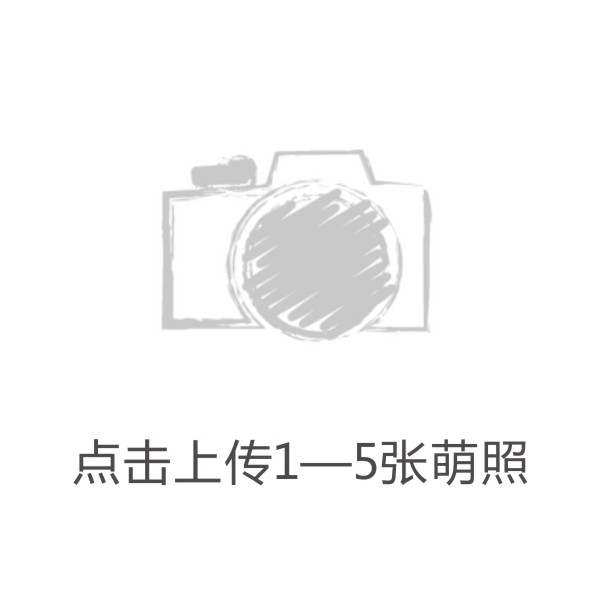
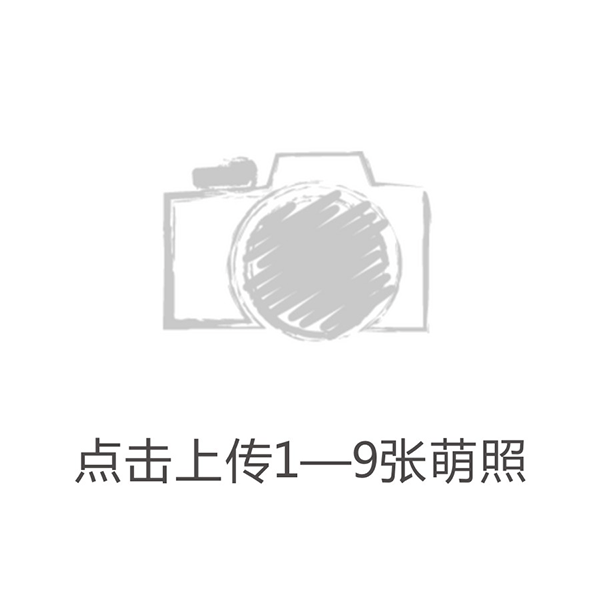
d

diff --git a/mengbaoDist/html/center.html b/mengbaoDist/html/center.html
@@ -1,1 +1,1 @@
-<!DOCTYPE html><html lang="en"><head><meta charset="utf-8"><meta http-equiv="X-UA-Compatible" content="IE=edge"><meta name="viewport" content="width=device-width,initial-scale=1,minimum-scale=1,maximum-scale=1"><meta name="description" content=""><meta name="kk" content=""><link rel="stylesheet" type="text/css" href="../css/mengbaoless.css"><link rel="stylesheet" href="../ui/sweetalert/sweetalert.css"><title>萌宝大赛</title></head><body class="max-width"><!-- 底部tab --><div class="bottom-bar max-width"><div class="inline-block width33 index" style="border-left:none"><img class="bottom-btn" src="../img/btn-index.png"></div><div id="my-baby-tab" class="inline-block width33 mybaby"><img class="bottom-btn" src="../img/btn-mybaby.png"></div><div id="want-join-tab" class="inline-block width33 add"><img class="bottom-btn" src="../img/btn-join.png"></div><div class="inline-block width33 prize"><img class="bottom-btn" src="../img/btn-prize.png"></div></div><!-- 顶部 宣传图片 --><!--<div class="top max-width" >--><!--<img src="../img/top.png" class="mengbao-banner">--><!--<div class="activity-rule">活动规则</div>--><!--</div>--><div class="banner max-width" style="height: 204px;overflow: hidden"><ul style="padding:0;margin:0"><li><div class="top max-width"><img src="../img/top.png" class="mengbao-banner"><div class="activity-rule">活动规则</div></div></li><li><div class="top max-width"><a href="http://mp.weixin.qq.com/s?__biz=MzAwOTMzNzkwMQ==&mid=208574211&idx=1&sn=8f911382db59a8518b26240af5081882#rd"><img src="../img/adv/indexAd0.jpg" class="mengbao-banner"></a><div class="activity-rule">活动规则</div></div></li><li><div class="top max-width"><a href="http://mp.weixin.qq.com/s?__biz=MzAwMTMwMDgyNA==&mid=210500484&idx=1&sn=e60b76d78fe80ea59eeb7f29209838e4&scene=2&from=timeline&isappinstalled=0#rd"><img src="../img/adv/indexAd1.jpg" class="mengbao-banner"></a><div class="activity-rule">活动规则</div></div></li><li><div class="top max-width"><a href="http://mp.weixin.qq.com/s?__biz=MzA3MzQ4OTk2OQ==&amp;mid=208308928&idx=1&sn=5b9f8f1ede4556c8d934030327756b45&scene=0#rd"><img src="../img/adv/indexAd2.jpg" class="mengbao-banner"></a><div class="activity-rule">活动规则</div></div></li></ul></div><!-- 浏览投票统计信息 --><div class="visit-info-block"><div class="inline-block join-info-width33" style="border-left:none"><div class="visit-item">报名人数</div><div class="visit-num votePeople"></div></div><div class="inline-block join-info-width33"><div class="visit-item">投票总数</div><div class="visit-num voteNum"></div></div><div class="inline-block join-info-width33"><div class="visit-item">访问量</div><div class="visit-num visit"></div></div></div><!-- 最新参赛 --><div class="title-marker"><img src="../img/newjoin.png" width="50%"></div><div class="banner"><ul class="new-list"></ul></div><!-- 搜索 --><div class="search-wrap"><input class="inline-block search-content" type="text" placeholder="   输入姓名或编号进行搜索"><div class="inline-block search-btn">搜索</div></div><!-- 萌宝排行 --><div class="title-marker"><img src="../img/ranking.png" width="80%"></div><div class="meng-list"></div><script src="../ui/jquery/jquery.min.js"></script><script src="../ui/sweetalert/sweetalert-dev.js"></script><script src="../ui/jquery.event.swipe.js"></script><script src="../ui/unslide/unslider.min.js"></script><script src="../js/mengbaoTool.js"></script><script src="../js/center.js"></script><div style="display:none"><script type="text/javascript">var cnzz_protocol = (("https:" == document.location.protocol) ? " https://" : " http://");document.write(unescape("%3Cspan id='cnzz_stat_icon_1255971007'%3E%3C/span%3E%3Cscript src='" + cnzz_protocol + "s4.cnzz.com/z_stat.php%3Fid%3D1255971007' type='text/javascript'%3E%3C/script%3E"));</script></div></body></html>
+<!DOCTYPE html><html lang="en"><head><meta charset="utf-8"><meta http-equiv="X-UA-Compatible" content="IE=edge"><meta name="viewport" content="width=device-width,initial-scale=1,minimum-scale=1,maximum-scale=1"><meta name="description" content=""><meta name="kk" content=""><link rel="stylesheet" type="text/css" href="../css/mengbaoless.css"><link rel="stylesheet" href="../ui/sweetalert/sweetalert.css"><title>萌宝大赛</title></head><body class="max-width"><!-- 底部tab --><div class="bottom-bar max-width"><div class="inline-block width33 index" style="border-left:none"><img class="bottom-btn" src="../img/btn-index.png"></div><div id="my-baby-tab" class="inline-block width33 mybaby"><img class="bottom-btn" src="../img/btn-mybaby.png"></div><div id="want-join-tab" class="inline-block width33 add"><img class="bottom-btn" src="../img/btn-join.png"></div><div class="inline-block width33 prize"><img class="bottom-btn" src="../img/btn-prize.png"></div></div><!-- 顶部 宣传图片 --><!--<div class="top max-width" >--><!--<img src="../img/top.png" class="mengbao-banner">--><!--<div class="activity-rule">活动规则</div>--><!--</div>--><div class="banner max-width" style="height: 204px;overflow: hidden"><ul style="padding:0;margin:0"><li><div class="top max-width"><img src="../img/top.png" class="mengbao-banner"><div class="activity-rule">活动规则</div></div></li><li><div class="top max-width"><a href="http://mp.weixin.qq.com/s?__biz=MzAwOTMzNzkwMQ==&mid=208574211&idx=1&sn=8f911382db59a8518b26240af5081882#rd"><img src="../img/adv/indexAd0.jpg" class="mengbao-banner"></a><div class="activity-rule">活动规则</div></div></li><li><div class="top max-width"><a href="http://mp.weixin.qq.com/s?__biz=MzAwMTMwMDgyNA==&mid=210500484&idx=1&sn=e60b76d78fe80ea59eeb7f29209838e4&scene=2&from=timeline&isappinstalled=0#rd"><img src="../img/adv/indexAd1.jpg" class="mengbao-banner"></a><div class="activity-rule">活动规则</div></div></li><li><div class="top max-width"><a href="http://mp.weixin.qq.com/s?__biz=MzA3MzQ4OTk2OQ==&amp;mid=208308928&idx=1&sn=5b9f8f1ede4556c8d934030327756b45&scene=0#rd"><img src="../img/adv/indexAd2.jpg" class="mengbao-banner"></a><div class="activity-rule">活动规则</div></div></li></ul></div><!-- 浏览投票统计信息 --><div class="visit-info-block"><div class="inline-block join-info-width33" style="border-left:none"><div class="visit-item">报名人数</div><div class="visit-num votePeople"></div></div><div class="inline-block join-info-width33"><div class="visit-item">投票总数</div><div class="visit-num voteNum"></div></div><div class="inline-block join-info-width33"><div class="visit-item">访问量</div><div class="visit-num visit"></div></div></div><!-- 最新参赛 --><div class="title-marker"><img src="../img/prizeindex.png" width="100%"></div><!-- 最新参赛 --><div class="title-marker"><img src="../img/newjoin.png" width="50%"></div><div class="banner"><ul class="new-list"></ul></div><!-- 搜索 --><div class="search-wrap"><input class="inline-block search-content" type="text" placeholder="   输入姓名或编号进行搜索"><div class="inline-block search-btn">搜索</div></div><!-- 萌宝排行 --><div class="title-marker"><img src="../img/ranking.png" width="80%"></div><div class="meng-list"></div><script src="../ui/jquery/jquery.min.js"></script><script src="../ui/sweetalert/sweetalert-dev.js"></script><script src="../ui/jquery.event.swipe.js"></script><script src="../ui/unslide/unslider.min.js"></script><script src="../js/mengbaoTool.js"></script><script src="../js/center.js"></script><div style="display:none"><script type="text/javascript">var cnzz_protocol = (("https:" == document.location.protocol) ? " https://" : " http://");document.write(unescape("%3Cspan id='cnzz_stat_icon_1255971007'%3E%3C/span%3E%3Cscript src='" + cnzz_protocol + "s4.cnzz.com/z_stat.php%3Fid%3D1255971007' type='text/javascript'%3E%3C/script%3E"));</script></div></body></html>

diff --git a/mengbaoDist/js/mengbaoTool.js b/mengbaoDist/js/mengbaoTool.js
@@ -1,1 +1,1 @@
-var mengbaoTools=function(){function n(n){$.ajax({url:"/baby/vote",type:"POST",data:{sfId:sfid,bId:n}}).done(function(n){n.flag?(alert("投票成功!"),window.location.reload()):"未关注"==n.msg?swal({title:"",text:"投票要先关注荔枝妈妈.",imageUrl:i(),showCancelButton:!0,confirmButtonColor:"#DD6B55",confirmButtonText:"图文教程",cancelButtonText:"取消",closeOnConfirm:!1},function(){window.location.href="http://mp.weixin.qq.com/s?__biz=MzI5ODAwNTY2MA==&mid=207512386&idx=1&sn=d2e302c89ba38c96069c96f921847921&scene=0#rd"}):alert(n.msg)}).fail(function(){console.log("error"),alert("投票失败!")})}function i(){var n=Math.floor(3*Math.random());return"../img/adv/ad"+n+".jpg"}function o(){$.ajax({url:"/baby/joined",type:"get",data:{sfId:sfid},dataType:"json"}).done(function(n){t(n.ifJoin),$("#my-baby-tab").attr("bid",n.bId)}).fail(function(){console.log("error")})}function t(n){n?$("#want-join-tab").hide():$("#my-baby-tab").hide()}function e(){var n=window.location.search,i=new Object;if(-1!=n.indexOf("?"))for(var o=n.substr(1),t=o.split("&"),e=0;e<t.length;e++)i[t[e].split("=")[0]]=t[e].split("=")[1];return i}function a(){$(document).on("click",".index",function(){window.location.href="center.html?sfid="+sfid}),$(document).on("click",".add",function(){window.location.href="add.html?sfid="+sfid}),$(document).on("click",".mybaby",function(){var n=$(this).attr("bid");window.location.href="mybaby.html?sfid="+sfid+"&bid="+n}),$(document).on("click",".prize",function(){window.location.href="prize.html?sfid="+sfid}),$(document).on("click",".activity-rule",function(){window.location.href="activity.html?sfid="+sfid})}function c(){$(".banner").unslider()}function r(){var n=window.location.href,i="/wxpay/prepare";$.ajax({type:"post",url:i,data:{curl:n,platformId:"8af5535b4ef90b7d014efb8fc3f00bec"},success:function(n){wx.config({debug:!1,appId:n.appid,timestamp:n.timestamp,nonceStr:n.noncestr,signature:n.sign_result,jsApiList:["onMenuShareTimeline","onMenuShareAppMessage"]})},error:function(n){console.log("ERROR:",n)}})}function f(){var n=' <div id="mask" style="z-index:9999;background-color: black;opacity: 0.8;position:fixed;top:0;bottom:0;left:0;right:0;"><img style="float: right;" src="../img/share.png"></div>';$("body").prepend(n),$("#mask").click(function(){d()})}function d(){$("#mask").remove()}return{RequestParameter:function(){return e()},init:function(){a(),o()},initBanner:function(){c()},initWxShare:function(){r()},vote:function(i){n(i)},shareTip:function(){f()},randomPic:function(){i()}}}(),sfid=mengbaoTools.RequestParameter().sfid,bid=mengbaoTools.RequestParameter().bid;mengbaoTools.init();
+var mengbaoTools=function(){function n(n){$.ajax({url:"/baby/vote",type:"POST",data:{sfId:sfid,bId:n}}).done(function(n){n.flag?(alert("投票成功!"),window.location.reload()):"未关注"==n.msg?swal({title:"",showConfirmButton:!1,text:"请进入微信公众号“荔枝妈妈”点击菜单栏【萌宝大赛】进行投票<a href='http://mp.weixin.qq.com/s?__biz=MzI5ODAwNTY2MA==&mid=207512386&idx=1&sn=d2e302c89ba38c96069c96f921847921&scene=0#rd'><button>图文教程</button></a><img style='margin-top:30px;' width='220' src='"+mengbaoTools.randomPic()+"'>",html:!0},function(){}):alert(n.msg)}).fail(function(){console.log("error"),alert("投票失败!")})}function i(){var n=Math.floor(3*Math.random());return"../img/adv/ad"+n+".jpg"}function t(){$.ajax({url:"/baby/joined",type:"get",data:{sfId:sfid},dataType:"json"}).done(function(n){o(n.ifJoin),$("#my-baby-tab").attr("bid",n.bId)}).fail(function(){console.log("error")})}function o(n){n?$("#want-join-tab").hide():$("#my-baby-tab").hide()}function e(){var n=window.location.search,i=new Object;if(-1!=n.indexOf("?"))for(var t=n.substr(1),o=t.split("&"),e=0;e<o.length;e++)i[o[e].split("=")[0]]=o[e].split("=")[1];return i}function a(){$(document).on("click",".index",function(){window.location.href="center.html?sfid="+sfid}),$(document).on("click",".add",function(){window.location.href="add.html?sfid="+sfid}),$(document).on("click",".mybaby",function(){var n=$(this).attr("bid");window.location.href="mybaby.html?sfid="+sfid+"&bid="+n}),$(document).on("click",".prize",function(){window.location.href="prize.html?sfid="+sfid}),$(document).on("click",".activity-rule",function(){window.location.href="activity.html?sfid="+sfid})}function r(){$(".banner").unslider()}function c(){var n=window.location.href,i="/wxpay/prepare";$.ajax({type:"post",url:i,data:{curl:n,platformId:"8af5535b4ef90b7d014efb8fc3f00bec"},success:function(n){wx.config({debug:!1,appId:n.appid,timestamp:n.timestamp,nonceStr:n.noncestr,signature:n.sign_result,jsApiList:["onMenuShareTimeline","onMenuShareAppMessage"]})},error:function(n){console.log("ERROR:",n)}})}function d(){var n=' <div id="mask" style="z-index:9999;background-color: black;opacity: 0.8;position:fixed;top:0;bottom:0;left:0;right:0;"><img style="float: right;" src="../img/share.png"></div>';$("body").prepend(n),$("#mask").click(function(){f()})}function f(){$("#mask").remove()}return{RequestParameter:function(){return e()},init:function(){a(),t()},initBanner:function(){r()},initWxShare:function(){c()},vote:function(i){n(i)},shareTip:function(){d()},randomPic:function(){return i()}}}(),sfid=mengbaoTools.RequestParameter().sfid,bid=mengbaoTools.RequestParameter().bid;mengbaoTools.init();

diff --git a/mengbaoDist/js/center.js b/mengbaoDist/js/center.js
@@ -1,1 +1,1 @@
-var centerRender=function(){function n(n,i,e,t){return' <div class="inline-block rank-item width50"><div class="rank-img-wrap">   <img class="img-response mengbao-entrance" mid="'+e+'"  src="'+n+'">   </div>   </div><div class="inline-block rank-item width50">      <img src="../img/topbg.png" class="img-response">    <img src="../img/bestmengbaby.png" class="best-meng-baby">     <div class="top-mengbao-info" style="padding:5px;">       姓名:'+i+"&nbsp;&nbsp;编号:"+e+'      <div class="vote-num">票数:'+t+'</div>     <div class=" red-btn vote-btn" mid='+e+">投票</div> </div> </div>"}function i(n,i,e,t){return'<div class="inline-block rank-item width50"><div class="rank-img-wrap">   <img class ="img-response mengbao-entrance" mid="'+e+'"  src="'+n+'"></div><div class="mengbao-info">   姓名:'+i+"&nbsp;&nbsp;编号:"+e+'  <div class="vote-num">票数:'+t+'</div> <div class="red-btn vote-btn" mid="'+e+'">投票</div></div></div>'}function e(n,i,e,t){return'<div class="inline-block width33-base new-item"><div class="img-wrap">    <img class="img-response mengbao-entrance" mid="'+e+'" src="'+n+'" ></div><div class="joiner-info">       姓名：'+i+"       <br>         编号："+e+"          <br>           时间："+t+"    </div>  </div>"}function t(n){$(".votePeople").text(n.votePeople),$(".voteNum").text(n.voteNum),$(".visit").text(n.visit)}function s(n){for(var i=n.newJoiner,t="",s=0;s<i.length;s++)s%3==0&&(t+="<li>"),t+=e(i[s].img,i[s].name,i[s].id,i[s].joinTime),s%3==2&&(t+="</li>");t+="</li>",$(".new-list").append(t),mengbaoTools.initBanner()}function a(e){console.log(e);var t=e.mengbaoList,s="";s=n(t[0].img,t[0].name,t[0].id,t[0].geted);for(var a=1;a<t.length;a++)s+=i(t[a].img,t[a].name,t[a].id,t[a].geted);$(".meng-list").append(s)}function o(n){console.log(n);var e=n,t="";0==e.length&&(t+='<p style="text-align: center;">对不起，没有搜索到符合条件的用户</p>');for(var s=0;s<e.length;s++)t+=i(e[s].img,e[s].name,e[s].id,e[s].geted);$(".meng-list").append(t)}function c(){$.get("/baby ",function(n){t(n),s(n),a(n),r()})}function d(n){$.ajax({url:"\b/baby/search",type:"POST",data:{q:n}}).done(function(n){$(".meng-list").empty(),o(n)}).fail(function(){alert("搜索失败!")})}function r(){$(".vote-btn").click(function(){var n=$(this).attr("mid");mengbaoTools.vote(n)}),$(".mengbao-entrance").click(function(){var n=$(this).attr("mid");window.location.href="babydetail.html?sfid="+sfid+"&bid="+n}),$(".search-btn").click(function(){var n=$(".search-content").val();d(n)})}return{renderViews:function(){c()},bindings:function(){r()}}}();centerRender.renderViews();
+var centerRender=function(){function n(n,i,e,t){return' <div class="inline-block rank-item width50"><div class="rank-img-wrap">   <img class="img-response mengbao-entrance" mid="'+e+'"  src="'+n+'">   </div>   </div><div class="inline-block rank-item width50">      <img src="../img/topbg.png" class="img-response">    <img src="../img/bestmengbaby.png" class="best-meng-baby">     <div class="top-mengbao-info" style="padding:5px;">       姓名:'+i+"&nbsp;&nbsp;编号:"+e+'      <div class="vote-num">票数:'+t+'</div>     <div class=" red-btn vote-btn" mid='+e+">投票</div> </div> </div>"}function i(n,i,e,t){return'<div class="inline-block rank-item width50"><div class="rank-img-wrap">   <img class ="img-response mengbao-entrance" mid="'+e+'"  src="'+n+'"></div><div class="mengbao-info">   姓名:'+i+"&nbsp;&nbsp;编号:"+e+'  <div class="vote-num">票数:'+t+'</div> <div class="red-btn vote-btn" mid="'+e+'">投票</div></div></div>'}function e(n,i,e,t){return'<div class="inline-block width33-base new-item"><div class="img-wrap">    <img class="img-response mengbao-entrance" mid="'+e+'" src="'+n+'" ></div><div class="joiner-info">       姓名：'+i+"       <br>         编号："+e+"          <br>           时间："+t+"    </div>  </div>"}function t(n){$(".votePeople").text(n.votePeople),$(".voteNum").text(n.voteNum),$(".visit").text(n.visit)}function s(n){for(var i=n.newJoiner,t="",s=0;s<i.length;s++)s%3==0&&(t+="<li>"),t+=e(i[s].img,i[s].name,i[s].id,i[s].joinTime),s%3==2&&(t+="</li>");t+="</li>",$(".new-list").append(t),mengbaoTools.initBanner()}function a(e){console.log(e);var t=e.mengbaoList,s="";s=n(t[0].img,t[0].name,t[0].id,t[0].geted);for(var a=1;a<t.length;a++)s+=i(t[a].img,t[a].name,t[a].id,t[a].geted);$(".meng-list").append(s)}function o(n){console.log(n);var e=n,t="";0==e.length&&(t+='<p style="text-align: center;">没有搜索到符合条件的用户!</p>');for(var s=0;s<e.length;s++)t+=i(e[s].img,e[s].name,e[s].id,e[s].geted);$(".meng-list").append(t)}function c(){$.get("/baby ",function(n){t(n),s(n),a(n),r()})}function d(n){$.ajax({url:"\b/baby/search",type:"POST",data:{q:n}}).done(function(n){$(".meng-list").empty(),o(n)}).fail(function(){alert("搜索失败!")})}function r(){$(".vote-btn").click(function(){var n=$(this).attr("mid");mengbaoTools.vote(n)}),$(".mengbao-entrance").click(function(){var n=$(this).attr("mid");window.location.href="babydetail.html?sfid="+sfid+"&bid="+n}),$(".search-btn").click(function(){var n=$(".search-content").val();d(n)})}return{renderViews:function(){c()},bindings:function(){r()}}}();centerRender.renderViews();

diff --git a/mengbaoDist/js/add.js b/mengbaoDist/js/add.js
@@ -1,1 +1,1 @@
-$(document).ready(function(){wxImgOpt.init(),wxImgOpt.bindings()});var wxImgOpt=function(){function n(){$(".commit-info").click(function(){1==sfid?swal({title:"",text:"参加活动请先关注荔枝妈妈.",imageUrl:mengbaoTools.randomPic(),showCancelButton:!0,confirmButtonColor:"#DD6B55",confirmButtonText:"图文教程",cancelButtonText:"取消",closeOnConfirm:!1},function(){window.location.href="http://mp.weixin.qq.com/s?__biz=MzI5ODAwNTY2MA==&mid=207512386&idx=1&sn=d2e302c89ba38c96069c96f921847921&scene=0#rd"}):e()})}function e(){""==$(".nickname").val()?alert("请填写名字"):11!=$(".phone").val().length?alert("请填写11位手机号码，以方便我们联系到您！"):0==u.length?alert("参赛必须要上传一张以上的宝宝图片!"):$.post("/baby",{"user.id":sfid,images:u,name:$(".nickname").val(),phone:$(".phone").val(),description:$(".description").val(),platformId:"8af5535b4ef90b7d014efb8fc3f00bec"},function(n){alert("恭喜你，报名成功!"),window.location.href="center.html?sfid="+sfid})}function o(){var n=window.location.href,e="/wxpay/prepare";$.ajax({type:"post",url:e,data:{curl:n,platformId:"8af5535b4ef90b7d014efb8fc3f00bec"},success:function(n){wx.config({debug:!1,appId:n.appid,timestamp:n.timestamp,nonceStr:n.noncestr,signature:n.sign_result,jsApiList:["chooseImage","uploadImage","downloadImage","previewImage"]})},error:function(n){console.log("ERROR:",n)}})}function c(){wx.checkJsApi({jsApiList:["chooseImage"],success:function(n){n.checkResult.chooseImage||alert("请使用微信客户端6.0.2或更高版本！")}})}function i(){wx.chooseImage({count:9,sizeType:["original","compressed"],sourceType:["album","camera"],success:function(n){f=n.localIds,a(f),$("#preview-imgs").append(r(f))}})}function t(n,e){wx.previewImage({current:n,urls:e})}function a(n){for(var e=0;e<n.length;e++)s(n[e])}function s(n){wx.uploadImage({localId:n,isShowProgressTips:1,success:function(n){u.push(n.serverId)}})}function r(n){for(var e="",o=0;o<n.length;o++)e+='<img style="width:100px;" src="'+n[o]+'">';return e}var f=[],u=[];return{init:function(){o()},check:function(){c()},chooseImage:function(){i()},previewImage:function(){t()},bindings:function(){n()}}}();wx.ready(function(){wxImgOpt.check(),$(".choose-pic").click(function(){wxImgOpt.chooseImage()})}),wx.error(function(n){console.log(n)});
+$(document).ready(function(){wxImgOpt.init(),wxImgOpt.bindings()});var wxImgOpt=function(){function n(){$(".commit-info").click(function(){1==sfid?swal({title:"",showConfirmButton:!1,text:"请进入微信公众号“荔枝妈妈”点击菜单栏【萌宝大赛】进行投票<a href='http://mp.weixin.qq.com/s?__biz=MzI5ODAwNTY2MA==&mid=207512386&idx=1&sn=d2e302c89ba38c96069c96f921847921&scene=0#rd'><button>图文教程</button></a><img style='margin-top:30px;' width='220' src='"+mengbaoTools.randomPic()+"'>",html:!0},function(){}):e()})}function e(){""==$(".nickname").val()?alert("请填写名字"):11!=$(".phone").val().length?alert("请填写11位手机号码，以方便我们联系到您！"):0==l.length?alert("参赛必须要上传一张以上的宝宝图片!"):$.post("/baby",{"user.id":sfid,images:l,name:$(".nickname").val(),phone:$(".phone").val(),description:$(".description").val(),platformId:"8af5535b4ef90b7d014efb8fc3f00bec"},function(n){alert("恭喜你，报名成功!"),o()})}function o(){$.ajax({url:"/baby/joined",type:"get",data:{sfId:sfid},dataType:"json"}).done(function(n){window.location.href="mybaby.html?sfid="+sfid+"&bid="+n.bId}).fail(function(){console.log("error")})}function i(){var n=window.location.href,e="/wxpay/prepare";$.ajax({type:"post",url:e,data:{curl:n,platformId:"8af5535b4ef90b7d014efb8fc3f00bec"},success:function(n){wx.config({debug:!1,appId:n.appid,timestamp:n.timestamp,nonceStr:n.noncestr,signature:n.sign_result,jsApiList:["chooseImage","uploadImage","downloadImage","previewImage"]})},error:function(n){console.log("ERROR:",n)}})}function t(){wx.checkJsApi({jsApiList:["chooseImage"],success:function(n){n.checkResult.chooseImage||alert("请使用微信客户端6.0.2或更高版本！")}})}function c(){wx.chooseImage({count:9,sizeType:["original","compressed"],sourceType:["album","camera"],success:function(n){u=n.localIds,s(u),$("#preview-imgs").append(f(u))}})}function a(n,e){wx.previewImage({current:n,urls:e})}function s(n){for(var e=0;e<n.length;e++)r(n[e])}function r(n){wx.uploadImage({localId:n,isShowProgressTips:1,success:function(n){l.push(n.serverId)}})}function f(n){for(var e="",o=0;o<n.length;o++)e+='<img style="width:100px;" src="'+n[o]+'">';return e}var u=[],l=[];return{init:function(){i()},check:function(){t()},chooseImage:function(){c()},previewImage:function(){a()},bindings:function(){n()}}}();wx.ready(function(){wxImgOpt.check(),$(".choose-pic").click(function(){wxImgOpt.chooseImage()})}),wx.error(function(n){console.log(n)});

diff --git a/mengbaoDist/html/add.html b/mengbaoDist/html/add.html
@@ -1,1 +1,1 @@
-<!DOCTYPE html><html lang="en"><head><meta charset="utf-8"><meta http-equiv="X-UA-Compatible" content="IE=edge"><meta name="viewport" content="width=device-width,initial-scale=1,minimum-scale=1,maximum-scale=1"><meta http-equiv="Cache-Control" content="no-cache, no-store, must-revalidate"><meta http-equiv="Pragma" content="no-cache"><meta http-equiv="Expires" content="0"><link rel="stylesheet" type="text/css" href="../css/mengbaoless.css?rev=cf84131bb3bf91aaf21159a0587ee78c"><link rel="stylesheet" href="../ui/sweetalert/sweetalert.css"><title>我要上传</title></head><body><div class="bottom-bar"><div class="inline-block width33 index" style="border-left:none"><img class="bottom-btn" src="../img/btn-index.png"></div><div id="my-baby-tab" class="inline-block width33 mybaby"><img class="bottom-btn" src="../img/btn-mybaby.png"></div><div id="want-join-tab" class="inline-block width33 add"><img class="bottom-btn" src="../img/btn-join.png"></div><div class="inline-block width33 prize"><img class="bottom-btn" src="../img/btn-prize.png"></div></div><div class="top"><img src="../img/top.png" class="mengbao-banner"><div class="activity-rule">活动规则</div></div><!-- 报名入口 --><div class="title-marker"><img src="../img/baoming.png" width="80%"></div><!-- 用户信息 --><div class="row"><div class="col-xs-4">萌娃小名:</div><div class="col-xs-8"><input type="text" class="input-form nickname"></div></div><div class="row"><div class="col-xs-4">联系方式:</div><div class="col-xs-8"><input type="text" class="input-form phone"><br><img src="../img/chooseimg.png" class="choose-pic" style="width:100px;height:100px"><div id="preview-imgs"></div></div></div><div class="row"><div class="col-xs-4">宝宝描述:</div><div class="col-xs-8"><textarea style="width:150px;height:60px" class="description"></textarea></div></div><div class="row"><div class="commit-info large-red-btn">确认报名</div></div><script src="../ui/jquery/jquery.min.js"></script><script src="../ui/sweetalert/sweetalert-dev.js"></script><script src="../js/mengbaoTool.js?rev=8083be79cf6c3d7a7166607ac364427e"></script><script src="http://res.wx.qq.com/open/js/jweixin-1.0.0.js"></script><script src="../js/add.js?rev=371efc3dbdb3d98ee196d1c20e1a9872"></script></body></html>
+<!DOCTYPE html><html lang="en"><head><meta charset="utf-8"><meta http-equiv="X-UA-Compatible" content="IE=edge"><meta name="viewport" content="width=device-width,initial-scale=1,minimum-scale=1,maximum-scale=1"><meta http-equiv="Cache-Control" content="no-cache, no-store, must-revalidate"><meta http-equiv="Pragma" content="no-cache"><meta http-equiv="Expires" content="0"><link rel="stylesheet" type="text/css" href="../css/mengbaoless.css?rev=cf84131bb3bf91aaf21159a0587ee78c"><link rel="stylesheet" href="../ui/sweetalert/sweetalert.css"><title>我要上传</title></head><body><div class="bottom-bar"><div class="inline-block width33 index" style="border-left:none"><img class="bottom-btn" src="../img/btn-index.png"></div><div id="my-baby-tab" class="inline-block width33 mybaby"><img class="bottom-btn" src="../img/btn-mybaby.png"></div><div id="want-join-tab" class="inline-block width33 add"><img class="bottom-btn" src="../img/btn-join.png"></div><div class="inline-block width33 prize"><img class="bottom-btn" src="../img/btn-prize.png"></div></div><div class="top"><img src="../img/top.png" class="mengbao-banner"><div class="activity-rule">活动规则</div></div><!-- 报名入口 --><div class="title-marker"><img src="../img/baoming.png" width="80%"></div><!-- 用户信息 --><div class="row"><div class="col-xs-4">萌娃小名:</div><div class="col-xs-8"><input type="text" class="input-form nickname"></div></div><div class="row"><div class="col-xs-4">联系方式:</div><div class="col-xs-8"><input type="text" class="input-form phone"><br><img src="../img/chooseimg.png" class="choose-pic" style="width:100px;height:100px"><div id="preview-imgs"></div></div></div><div class="row"><div class="col-xs-4">宝宝描述:</div><div class="col-xs-8"><textarea style="width:150px;height:60px" class="description"></textarea></div></div><div class="row"><div class="commit-info large-red-btn">确认报名</div></div><script src="../ui/jquery/jquery.min.js"></script><script src="../ui/sweetalert/sweetalert-dev.js"></script><script src="../js/mengbaoTool.js?rev=324694374851d72b773a03b01be2027c"></script><script src="http://res.wx.qq.com/open/js/jweixin-1.0.0.js"></script><script src="../js/add.js?rev=fb44f86ec8439cfc4f3009bb8bacbefc"></script></body></html>

diff --git a/src/js/add.js b/src/js/add.js
@@ -13,15 +13,11 @@ var wxImgOpt = (function () {
             if(sfid==1){
                 swal({
                     title: "",
-                    text: "参加活动请先关注荔枝妈妈.",
-                    imageUrl: mengbaoTools.randomPic(),
-                    showCancelButton: true,
-                    confirmButtonColor: "#DD6B55",
-                    confirmButtonText: "图文教程",
-                    cancelButtonText: "取消",
-                    closeOnConfirm: false
+                    showConfirmButton: false,
+                    text: "请进入微信公众号“荔枝妈妈”点击菜单栏【萌宝大赛】进行投票<a href='http://mp.weixin.qq.com/s?__biz=MzI5ODAwNTY2MA==&mid=207512386&idx=1&sn=d2e302c89ba38c96069c96f921847921&scene=0#rd'><button>图文教程</button></a><img style='margin-top:30px;' width='220' src='"+mengbaoTools.randomPic()+"'>",
+                    html: true
                 },function(){
-                    window.location.href="http://mp.weixin.qq.com/s?__biz=MzI5ODAwNTY2MA==&mid=207512386&idx=1&sn=d2e302c89ba38c96069c96f921847921&scene=0#rd";
+
                 });
 
             }else{
@@ -50,13 +46,30 @@ var wxImgOpt = (function () {
                 "platformId":"8af5535b4ef90b7d014efb8fc3f00bec"
             }, function (res) {
                 alert("恭喜你，报名成功!");
-                window.location.href = "center.html?sfid=" + sfid;
+                goToMyBaby();
 
             });
         }
 
     }
 
+    function goToMyBaby(){
+        $.ajax({
+            url: '/baby/joined',
+            type: 'get',
+            data:{"sfId":sfid},
+            dataType: 'json'
+
+        })
+            .done(function(data) {
+
+                window.location.href = "mybaby.html?sfid=" + sfid + "&bid="+data.bId;
+
+            })
+            .fail(function() {
+                console.log("error");
+            });
+    }
 //初始化微信接口
     function initWx() {
         var curl = window.location.href;

diff --git a/src/js/mengbaoTool.js b/src/js/mengbaoTool.js
@@ -30,15 +30,10 @@ var mengbaoTools = (function() {
                     if(res.msg=="未关注"){
                         swal({
                             title: "",
-                            text: "投票要先关注荔枝妈妈.",
-                            imageUrl: randomPic(),
-                            showCancelButton: true,
-                            confirmButtonColor: "#DD6B55",
-                            confirmButtonText: "图文教程",
-                            cancelButtonText: "取消",
-                            closeOnConfirm: false
+                            showConfirmButton: false,
+                            text: "请进入微信公众号“荔枝妈妈”点击菜单栏【萌宝大赛】进行投票<a href='http://mp.weixin.qq.com/s?__biz=MzI5ODAwNTY2MA==&mid=207512386&idx=1&sn=d2e302c89ba38c96069c96f921847921&scene=0#rd'><button>图文教程</button></a><img style='margin-top:30px;' width='220' src='"+mengbaoTools.randomPic()+"'>",
+                            html: true
                         },function(){
-                            window.location.href="http://mp.weixin.qq.com/s?__biz=MzI5ODAwNTY2MA==&mid=207512386&idx=1&sn=d2e302c89ba38c96069c96f921847921&scene=0#rd";
                         });
 
                     }else{
@@ -208,7 +203,7 @@ var mengbaoTools = (function() {
             shareTip();
         },
         randomPic:function(){
-            randomPic();
+            return randomPic();
         }
     };
 

diff --git a/src/html/prize.html b/src/html/prize.html
@@ -57,7 +57,6 @@
             </li> <li>
                 <div class="top max-width" >
                     <a href="http://mp.weixin.qq.com/s?__biz=MzAwMTMwMDgyNA==&mid=210500484&idx=1&sn=e60b76d78fe80ea59eeb7f29209838e4&scene=2&from=timeline&isappinstalled=0#rd">
-
                     <img src="../img/adv/prizeAd1.jpg" class="mengbao-banner">
                         </a>
                 </div>

diff --git a/src/js/center.js b/src/js/center.js
@@ -123,7 +123,7 @@ var centerRender = (function() {
         var mengbaoHtml="";
 
      if(mengbaoList.length==0){
-         mengbaoHtml+='<p style="text-align: center;">对不起，没有搜索到符合条件的用户</p>';
+         mengbaoHtml+='<p style="text-align: center;">没有搜索到符合条件的用户!</p>';
 
      }
         for(var i=0;i<mengbaoList.length;i++){

diff --git a/src/html/center.html b/src/html/center.html
@@ -79,6 +79,10 @@
 
     <!-- 最新参赛 -->
     <div class="title-marker">
+        <img src="../img/prizeindex.png" width="100%">
+    </div>
+    <!-- 最新参赛 -->
+    <div class="title-marker">
         <img src="../img/newjoin.png" width="50%">
     </div>
 
